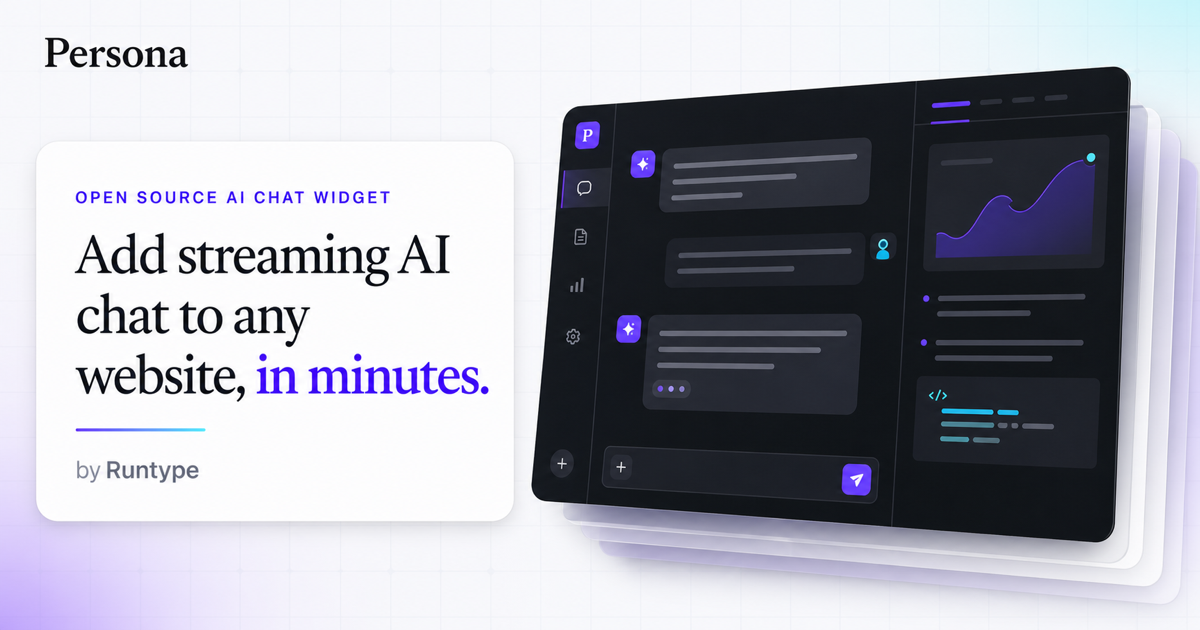
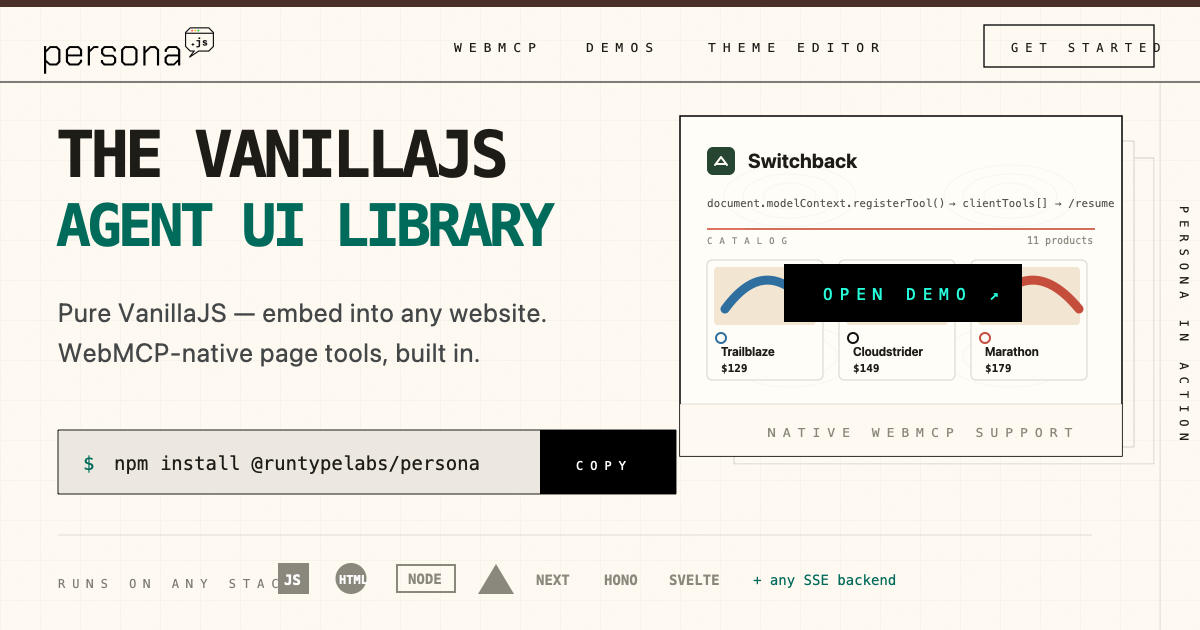
Refresh website OG image

diff --git a/apps/web/index.html b/apps/web/index.html
@@ -20,12 +20,12 @@
   <meta property="og:image:type" content="image/png">
   <meta property="og:image:width" content="1200">
   <meta property="og:image:height" content="630">
-  <meta property="og:image:alt" content="Persona: open source AI chat widget for websites">
+  <meta property="og:image:alt" content="Persona: VanillaJS Agent UI Library for any website with native WebMCP support">
   <meta name="twitter:card" content="summary_large_image">
   <meta name="twitter:title" content="Persona: Open-source Agent UI Library in VanillaJS">
   <meta name="twitter:description" content="Persona is an open-source, themeable AI chat widget you can add to any website in minutes. SSE streaming, agent loops, tool use, and style isolation: zero framework dependencies.">
   <meta name="twitter:image" content="https://www.persona-chat.dev/og-image.png">
-  <meta name="twitter:image:alt" content="Persona: open-source Agent UI Library in VanillaJS">
+  <meta name="twitter:image:alt" content="Persona: VanillaJS Agent UI Library for any website with native WebMCP support">
 </head>
 <body>
   <!-- Brand logo sprite (frameworks + platforms). Paths sourced from the Simple Icons set